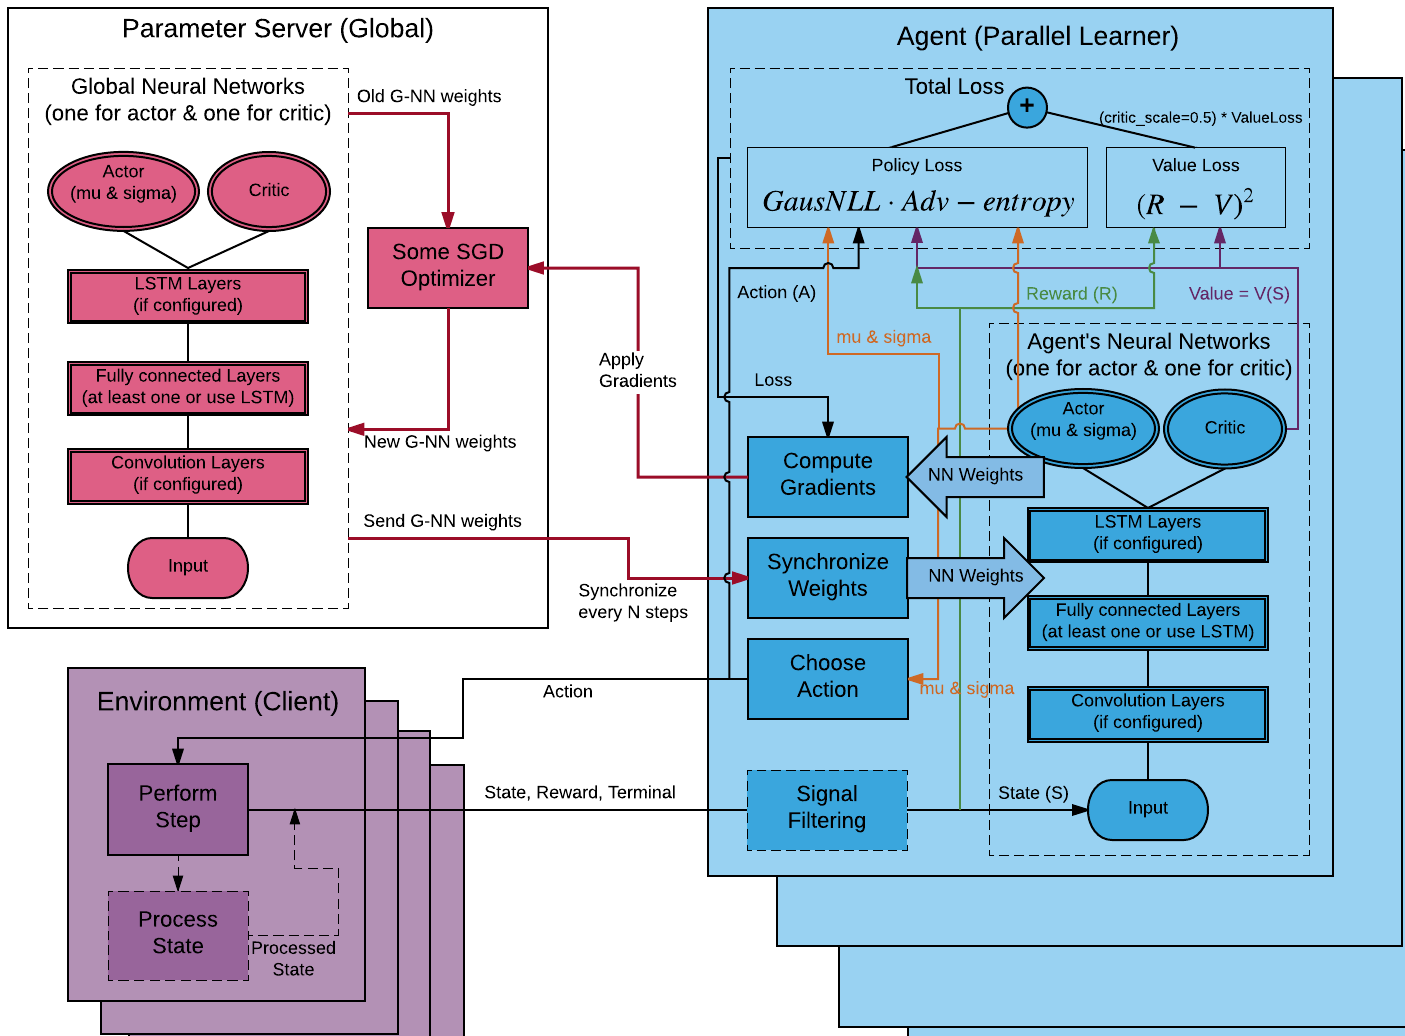
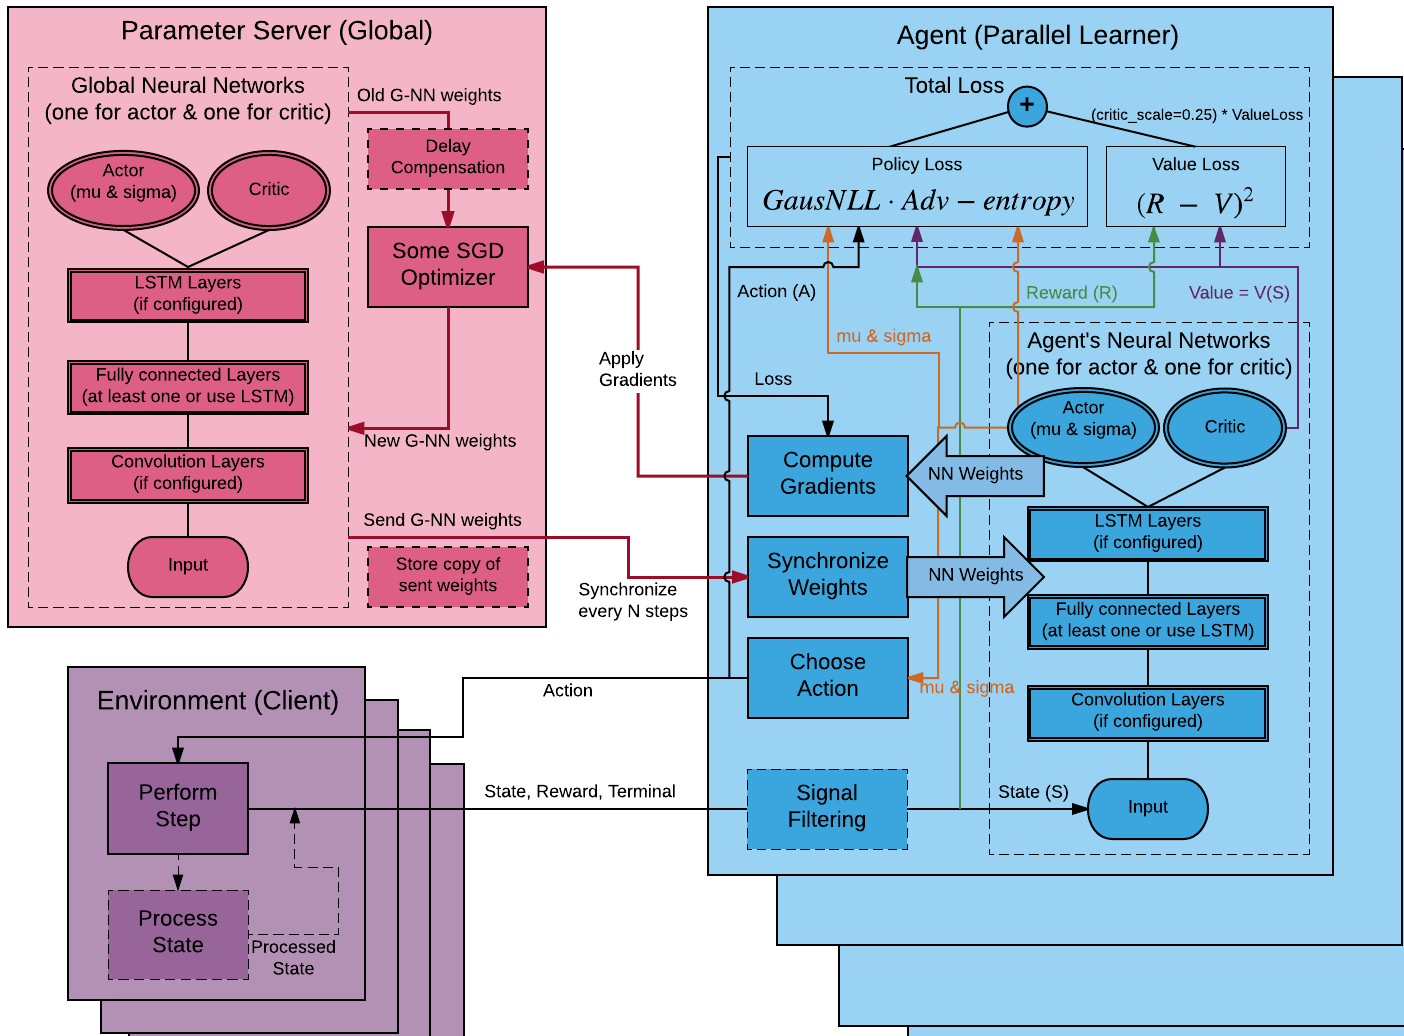
doc: update architectures & rm use_gae from DA3C

diff --git a/docs/Algorithms.md b/docs/Algorithms.md
@@ -99,8 +99,8 @@ receive the global network weights at any time.
 
 - _Total Loss_ _`= Policy_Loss + critic_scale * Value_Loss`_  
     It uses `critic_scale` parameter to set a `critic learning rate` relative to `policy learning rate`  
-    It's set to `0.5` by default, i.e. the `critic learning rate` is `2` times smaller than `policy learning rate`
-    
+    It's set to `1.0` by default, i.e. the `critic learning rate` is `4` times larger than `policy learning rate`
+
     - _Value Loss_: sum (over all batch samples) of squared difference between
     expected discounted reward `(R)` and a value of the current sample state - `V(s)`,
     i.e. expected discounted return from this state.  
@@ -184,7 +184,7 @@ also with another `Actor` type, `Policy Loss`, `Choose Action` procedure  and ad
 #### [Intrinsic Curiosity Model for DA3C](#algorithms)
 
 `DA3C` algorithm can also be extended with additional models.  
-By default it can use a [ICM](https://arxiv.org/abs/1705.05363) by setting `use_gae` parameter to `True`.
+By default it can use a [ICM](https://arxiv.org/abs/1705.05363) by setting `use_icm` parameter to `True`.
 
 `ICM` helps Agent to discover an environment out of curiosity when extrinsic rewards are spare
 or not present at all. This model proposed an intrinsic reward which is learned jointly with Agent's policy
@@ -215,7 +215,6 @@ You must specify the parameters for the algorithm in the corresponding `app.yaml
     hidden_sizes: [256]             # list to define layers sizes after convolutions
 
     use_icm: true                   # set to True to use ICM module
-    use_gae: true                   # set to True to use generalized advantage estimation
     gae_lambda: 1.00                # discount lambda for generalized advantage estimation
 
     use_lstm: true                  # set to True to use LSTM instead of Fully-Connected layers
@@ -223,6 +222,10 @@ You must specify the parameters for the algorithm in the corresponding `app.yaml
 
     optimizer: Adam
     initial_learning_rate: 1e-4     # initial learning rate which linear annealing through training
+    
+    RMSProp:                        # use only for RMSProp optimizer if you don't use Adam
+        decay: 0.99
+        epsilon: 0.1
 
     entropy_beta: 0.01              # entropy regularization constant
     rewards_gamma: 0.99             # rewards discount factor
@@ -237,8 +240,8 @@ It allows to omit parameters that don't have sense for current setup
 (it retrieves some from [default](https://github.com/deeplearninc/relaax/blob/641668e3b1b4a3c152b2c9fde83557a6c2f4e60a/relaax/algorithms/da3c/da3c_config.py)).  
 It also could be helpful to use some notations to outline different versions of the `DA3C`.  
 Therefore `DA3C-LSTM` is referred to architecture with `LSTM` layers and `DA3C-FF` otherwise.  
-`Discrete DA3C-FF-GAE-ICM-16` outlines feedforward architecture with `discrete` actor,   
-generalized advantage estimation (`GAE`) and curiosity model (`ICM`) with `16` Agents. 
+`Discrete DA3C-FF-ICM-16` outlines feedforward architecture with `discrete` actor,   
+and curiosity model (`ICM`) with `16` Agents. 
 
 **DA3C Graph sample from Tensorboard**
 
@@ -248,7 +251,7 @@ generalized advantage estimation (`GAE`) and curiosity model (`ICM`) with `16` A
 Performance of `Vanilla A3C` on classic `Atari` environments from [original paper](https://arxiv.org/pdf/1602.01783v2.pdf#page.19)
 (`1` day = `80` millions of steps)
 
-`DA3C-LSTM-GAE-8` with [Universe A3C architecture](https://github.com/openai/universe-starter-agent/blob/master/model.py) on Gym's Atari Pong
+`DA3C-LSTM-8` with [Universe A3C architecture](https://github.com/openai/universe-starter-agent/blob/master/model.py) on Gym's Atari Pong
 (see universe-starter-agent [result](https://github.com/4SkyNet/universe-starter-agent/tree/maze#atari-pong) to compare): 
 ![img](resources/DA3C-LSTM-GAE-8_Universe.png "DA3C on Atari Pong")  
 `DA3C-FF-8` with [Vanilla A3C architecture](https://arxiv.org/pdf/1602.01783v2.pdf#page.12) on Gym's Atari Boxing:
